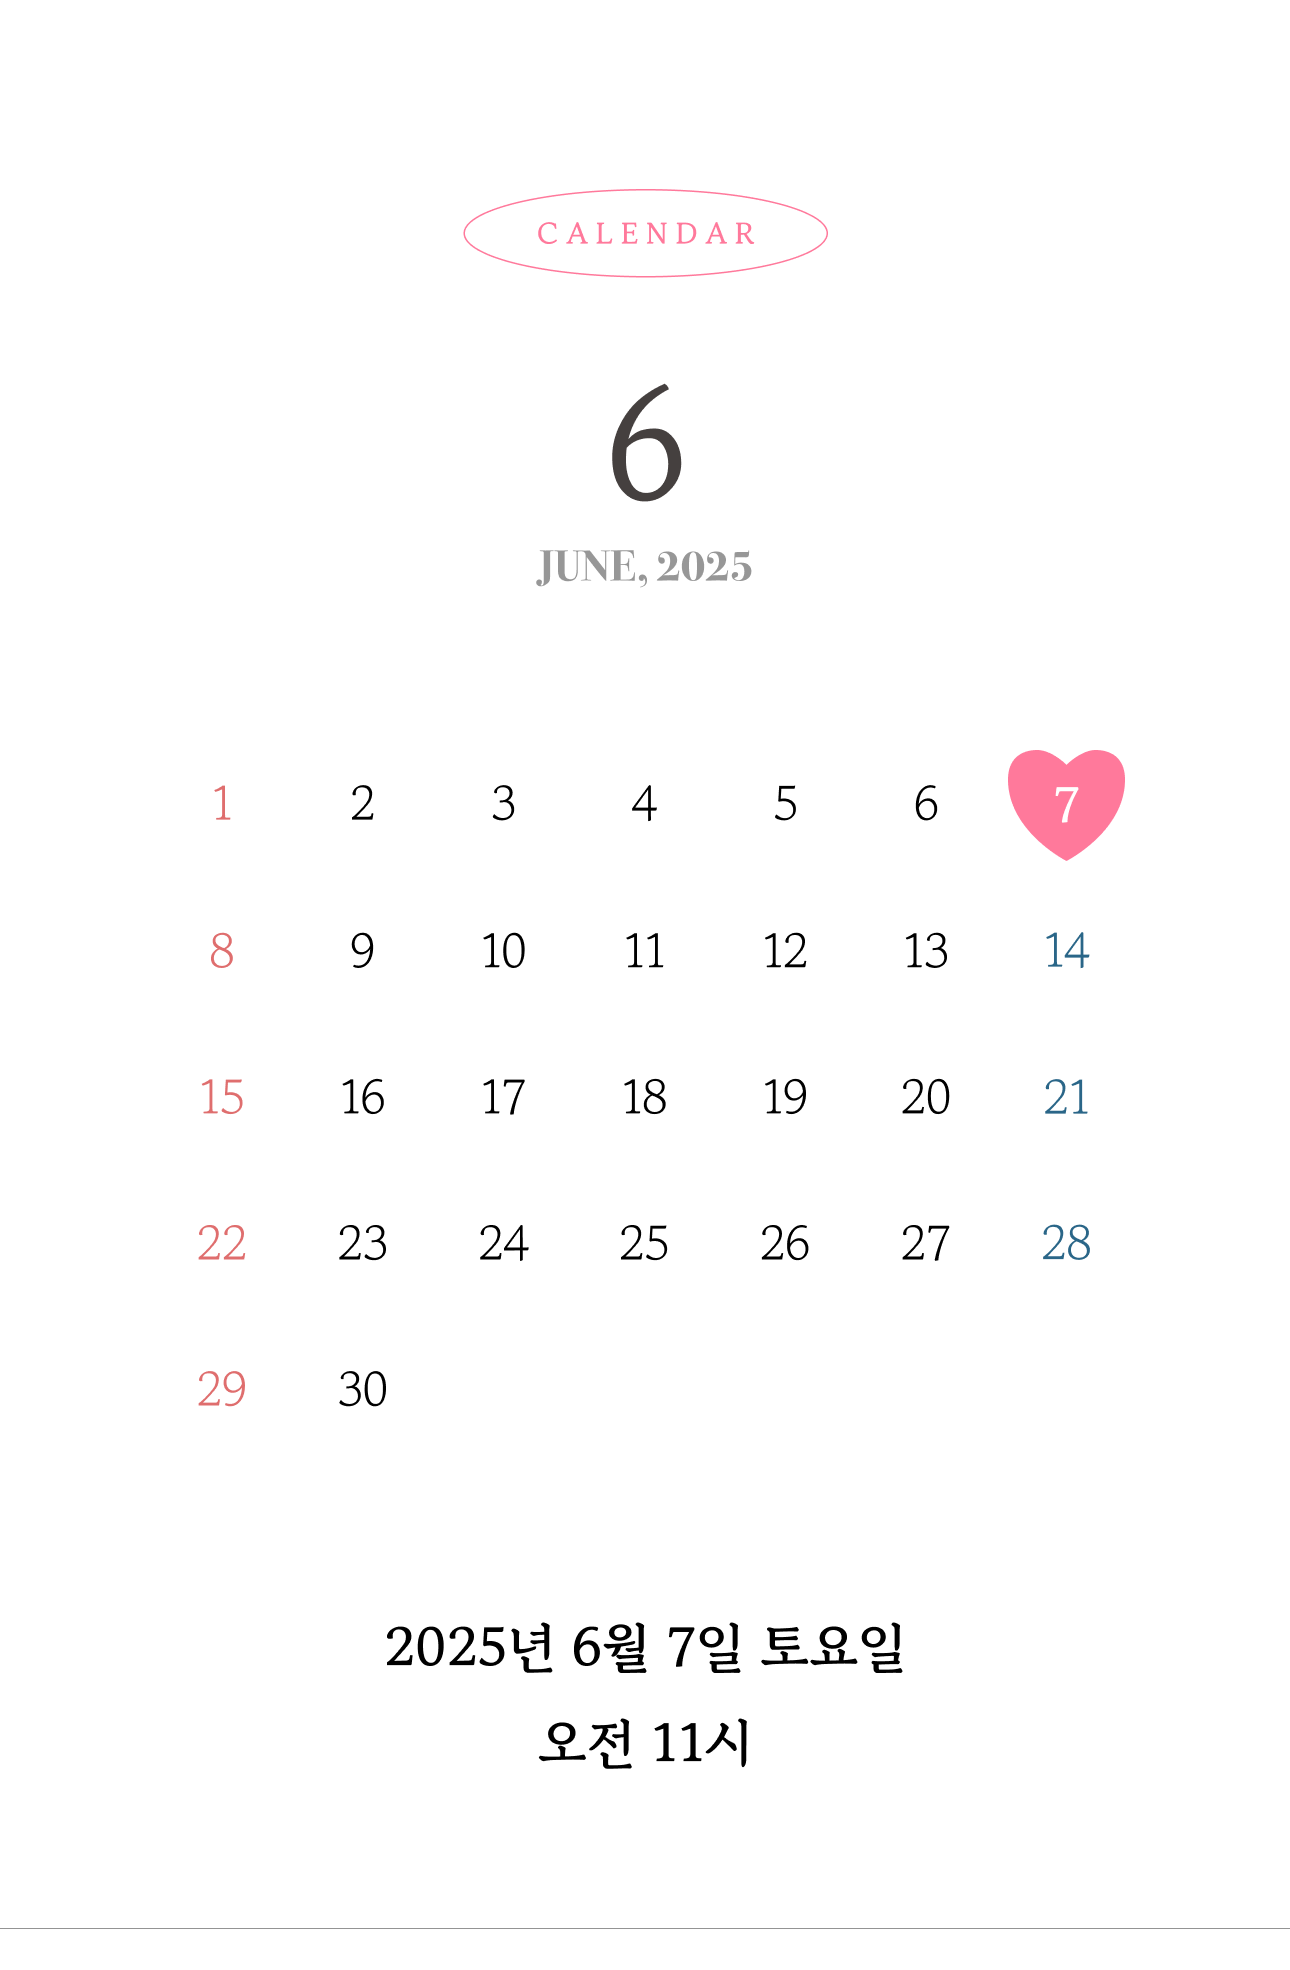
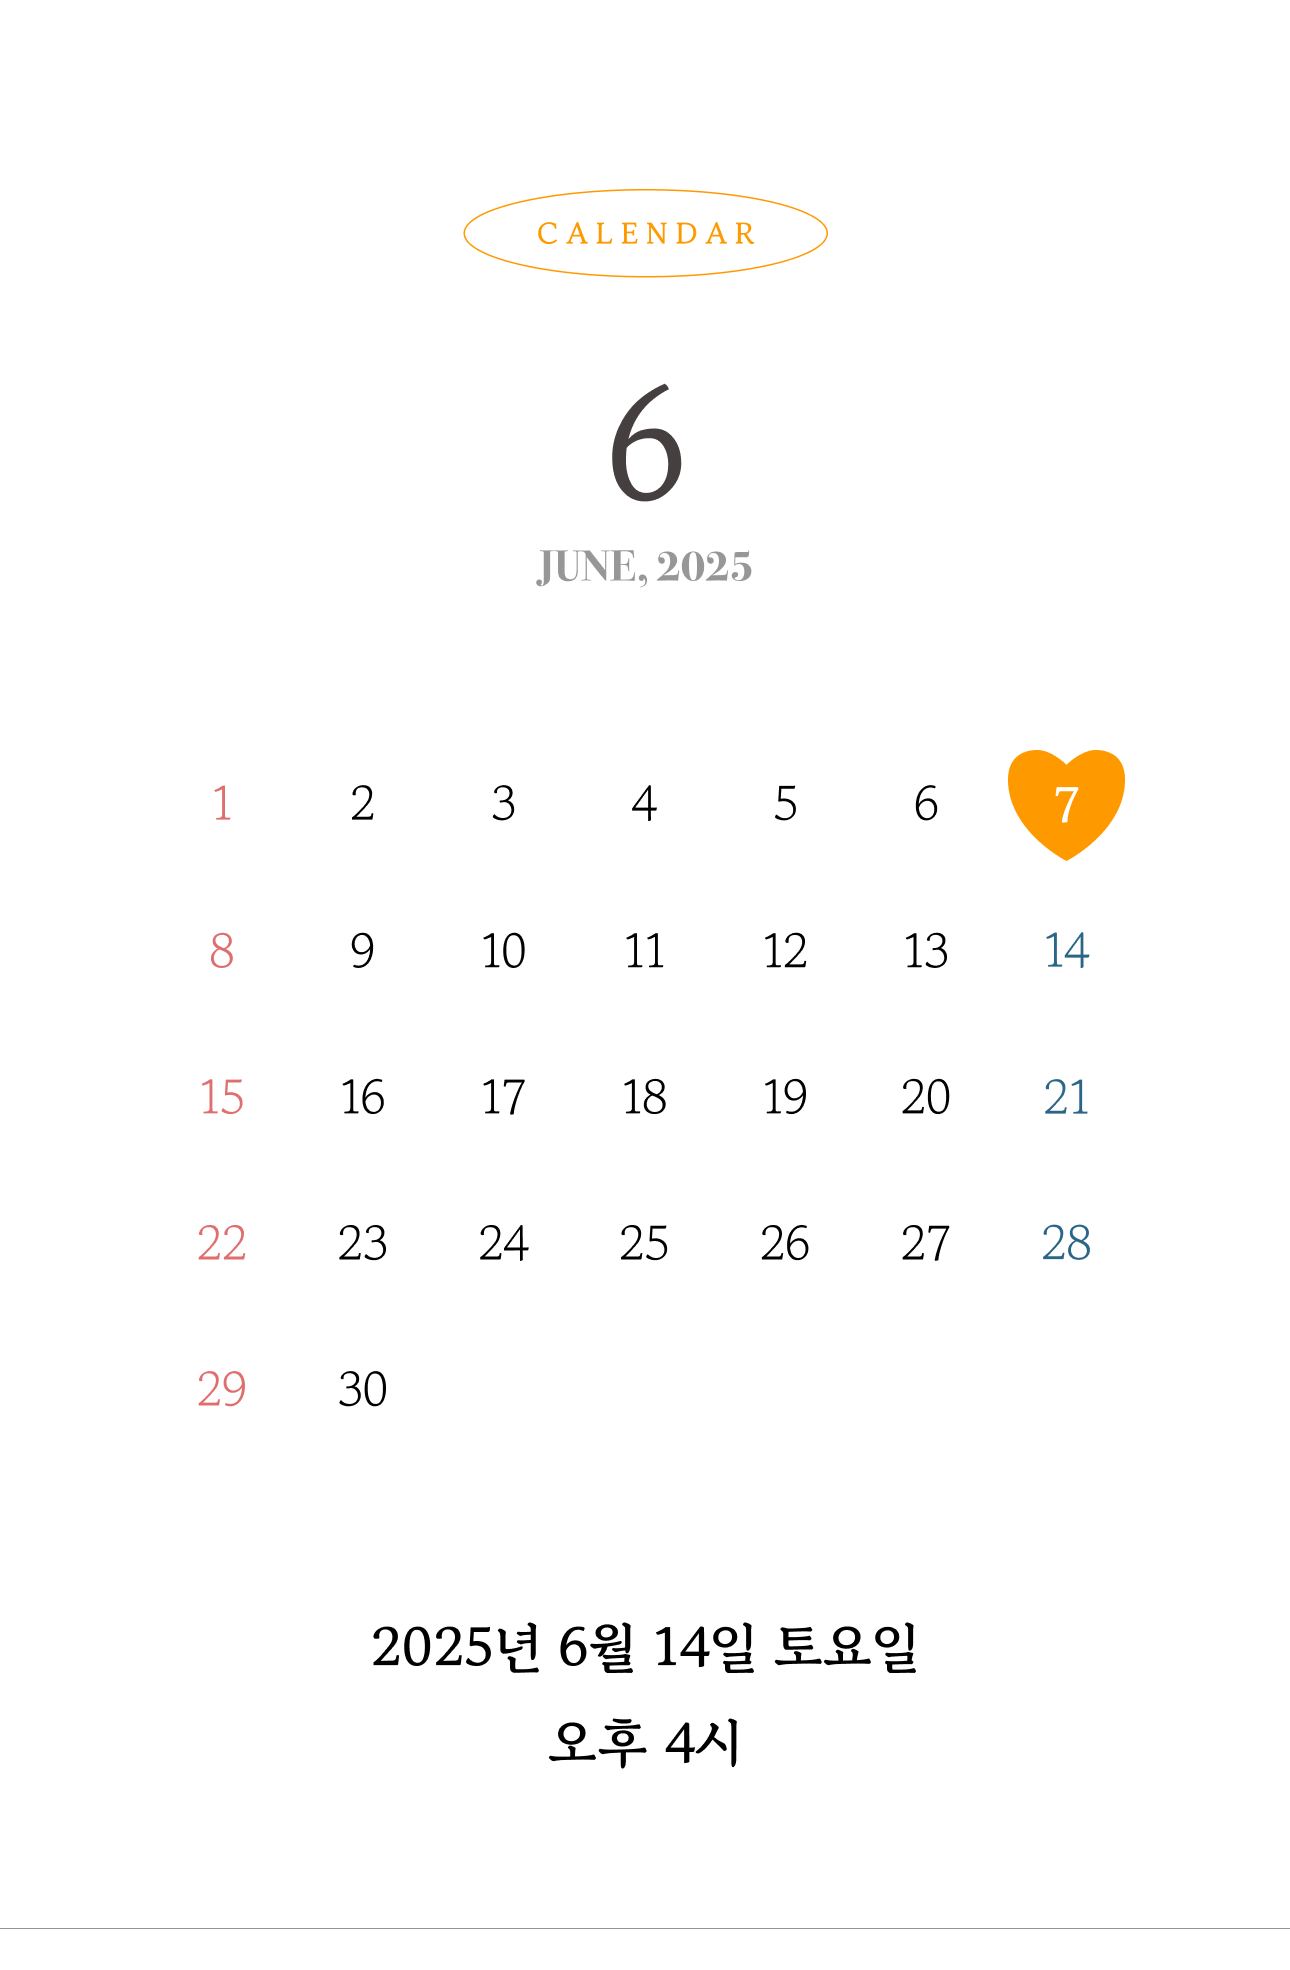
4

Changed region(s): [[0.2791, 0.8051, 0.7132, 0.898], [0.7752, 0.3716, 0.8682, 0.4335], [0.4341, 0.0929, 0.5891, 0.1239]]

diff --git a/index.html b/index.html
@@ -177,7 +177,7 @@
       <section id="gallerySection">
         <div id="galleryImages" class="gallery">
           <span style="
-            color: #FF799B;
+            color: #FF9900;
             font-size: 10px;
             min-width: 3rem;
             display: inline-block;"><b>G A L L E R Y</b></span><br>
@@ -231,7 +231,7 @@
               <th>SEC</th>
             </tr>
             <tr>
-              <td id="daysLeft" style="color: #FF799B; font-weight: 600">
+              <td id="daysLeft" style="color: #FF9900; font-weight: 600">
                 119
               </td>
               <td>:</td>
@@ -255,7 +255,7 @@
         <div class="animate-on-scroll">
 
           <span style="
-            color: #FF799B;
+            color: #FF9900;
             font-size: 9px;
             min-width: 3rem;
             display: inline-block;"><b>L O C A T I O N</b></span>
@@ -343,7 +343,7 @@
       </div>
 
       <!-- map 길찾기 -->
-      <div class="animate-on-scroll" id="MapIconDiv" style="background-color: #FF799B;">
+      <div class="animate-on-scroll" id="MapIconDiv" style="background-color: #FFEBBF;">
         <div>
           <a class="maplink" href="https://kko.kakao.com/TW2l-fiiY7">
             <div>
@@ -361,11 +361,11 @@
       </div>
 
       <!-- 이동수단 정보 -->
-      <div class="animate-on-scroll">
+      <!-- <div class="animate-on-scroll">
         <div>
           <img src="img/location.png" alt="이동수단" style="width: 100%; height: 100%" />
         </div>
-      </div>
+      </div> -->
 
       <!-- <section id="locationMoveSection" class="flex justify-center">
           <div class="animate-on-scroll">
@@ -591,7 +591,7 @@
                 this.classList.toggle("active");
                 var accountPanel = this.nextElementSibling;
                 if (this.classList.contains("active")) {
-                  accountPanel.style.height = "660px";
+                  accountPanel.style.height = "250px";
                   accountPanel.style.padding = "5%";
                 } else {
                   accountPanel.style.height = "0";
@@ -679,7 +679,7 @@
       <div class="swiper-slide">
         <img src="img/wedding/10.png" title="TITLE 10" />
       </div>
-      <div class="swiper-slide">
+      <!-- <div class="swiper-slide">
         <img src="img/wedding/11.png" title="TITLE 11" />
       </div>
       <div class="swiper-slide">
@@ -696,7 +696,7 @@
       </div>
       <div class="swiper-slide">
         <img src="img/wedding/16.png" title="TITLE 16" />
-    </div>
+    </div> -->
     
     </div>
     <div class="swiper-button-next"></div>

diff --git a/style.css b/style.css
@@ -125,7 +125,7 @@ svg {
 }
 
 #gallerySection {
-  background-color: #FEF8FA;
+  background-color: #FDF8ED;
   padding-top: 20%;
 }
 
@@ -133,7 +133,7 @@ svg {
   display: grid;
   grid-template-columns: repeat(2, minmax(0, 1fr));
   grid-gap: 5px;
-  background-color: #FEF8FA;
+  background-color: #FDF8ED;
   /* (A2) OPTIONAL WIDTH RESTRICT */
   max-width: 1000px;
   margin: 0 auto;
@@ -232,7 +232,7 @@ svg {
 }
 
 .countdownTimeInfo {
-  color: #FF799B;
+  color: #FF9900;
   font-weight: 600;
 }
 
@@ -274,7 +274,7 @@ svg {
 
 #locationSection {
   margin-top: 3%;
-  background-color: #FEF8FA;
+  background-color: #FDF8EDㄴ;
   height: 265px;
 }
 
@@ -339,7 +339,7 @@ main {
 }
 
 .accordion {
-  background-color: #FEF8FA;
+  background-color: #FDF8ED;
   color: black;
   cursor: pointer;
   padding: 0.8rem;
@@ -436,7 +436,7 @@ main {
 }
 
 #kakaoMapButton {
-  background-color: #FF799B;
+  background-color: #FFEBBF;
   padding: 10px;
   text-align: center;
   width: auto;
